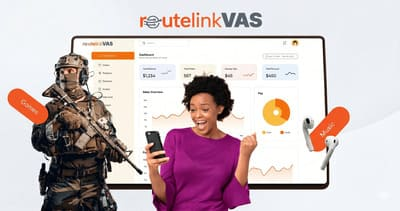
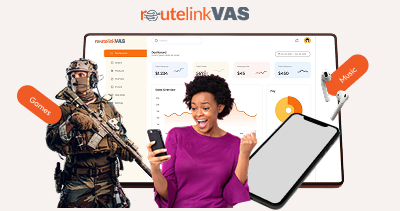
bg and link image fix

diff --git a/src/app/services/page.tsx b/src/app/services/page.tsx
@@ -6,7 +6,7 @@ import Howweworksection from "@/components/Howweworksection";
 
 export default function services() {
   return (
-    <main>
+    <main className="bg-white">
       <Servicehero />
       <Vascapabilities />
       <Howweworksection />
